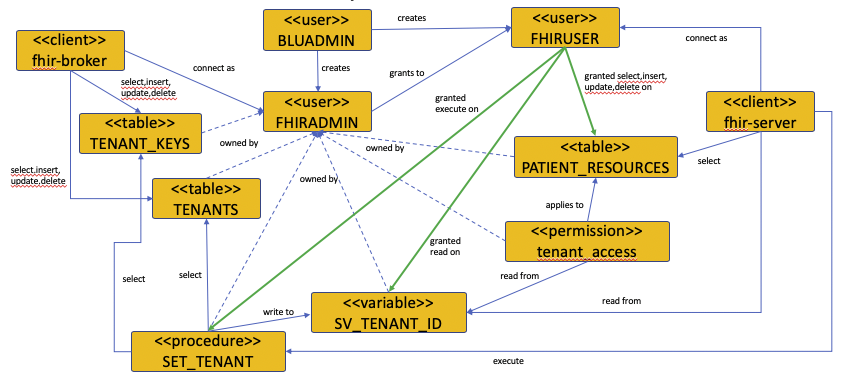
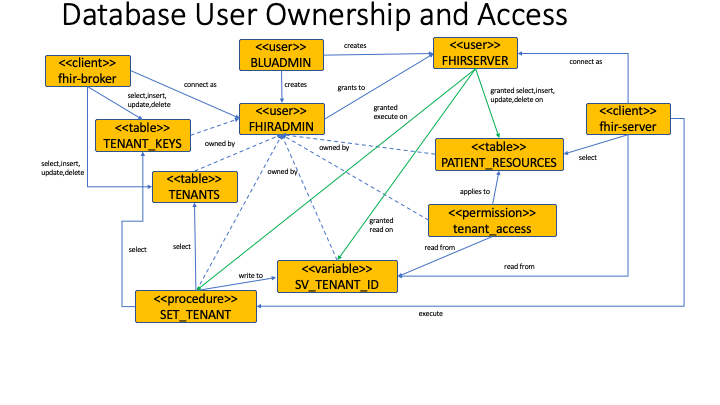
IBM FHIR Server - DB2 Multitenancy Guide #744

diff --git a/fhir-persistence-schema/docs/DB2MultiTenancy.md b/fhir-persistence-schema/docs/DB2MultiTenancy.md
@@ -1,6 +1,6 @@
-# The IBM FHIR Server - DB2 Multi-Tenancy
+# The IBM FHIR Server - Db2 Multi-Tenancy
 
-This document outlines the schema design and implementation for the IBM FHIR Server's DB2 Multi-tenancy feature. 
+This document outlines the schema design and implementation for the IBM FHIR Server's Db2 Multi-tenancy feature. 
 
 The Multi-tenancy feature has two main areas of focus: 
 - Tenant Provisioning  
@@ -57,7 +57,7 @@ Multiple keys per tenant are supported, and key rotation includes adding, and th
 
 **Table: VERSION_HISTORY**
 
-The VERSION_HISTORY table enables Tenant version isolation, so upgrades and patches are separately applied to each tenant's schema. 
+The VERSION_HISTORY table enables Tenant version isolation, so upgrades and patches are separately applied to the schema the tenant belongs. Specifically, if the tenant shares the table definitions with another client, the patching is applied to both tenants at the same time.  If the tenant has a specific schema, the table definitions may be updated independent of each other. 
 
 | Column Name | Data Type | Length | Null | Purpose |
 |----------|---------------|---------------|---------------|---------------------------------------------|
@@ -71,15 +71,19 @@ The VERSION_HISTORY table enables Tenant version isolation, so upgrades and patc
 
 The Tenant specific data is partitioned and isolated in a customer specific tablespace.  The tenant data is not mixed with other tenant data physically using the tablespace isolation. 
 
-Tenants are never able to see each other's data, each user is only able to see a single tenant's data. 
+Tenants are never able to see each other's data, each user is only able to see a single tenant's data. The IBM FHIR Server uses the [CREATE PERMISSION statement](https://www.ibm.com/support/knowledgecenter/SSHRBY/com.ibm.swg.im.dashdb.sql.ref.doc/doc/r0057429.html) to create a row permission that specifies a condition under which rows of the table can be accessed. 
 
-Each tenant's data is able to be moved, backedup, restored or exported a tenant-at-a-time.  This approach allows tenant independent restore points.
+The condition to access the content is based on the SQL variable FHIR_ADMIN.SV_TENANT_ID joined with each table's MT_ID (multi-tenant id). If you need to query all tenants, you need to write a specific stored procedure to loop over the tenant_ids and query the table with each variable set with each tenant_id, and aggregate in the stored procedure. 
+
+Each tenant's data is able to be moved, backedup, restored or exported a tenant-at-a-time.  This approach allows tenant independent restore points, using [DB2 11.1: Backing up partitioned databases](https://www.ibm.com/support/knowledgecenter/SSEPGG_11.1.0/com.ibm.db2.luw.admin.ha.doc/doc/t0051366.html)
 
 The isolated data supports tenant independent query plan caches, scaling and disambiguating tenant specific disk and space usage. The performance metrics are tenant specific, and diagnostics are tenant specific. 
 
 **Table: Resources**
 
-Each resource is contains a root RESOURCE and LOGICAL RESOURCE, such as VISIONPRESCRIPTION:
+Each resource is contains a RESOURCE and LOGICAL RESOURCE table. `_LOGICAL_RESOURCES` has one record per logical resource.  `_RESOURCES` has one record for each version of each logical resource. 
+
+For example, VISIONPRESCRIPTION has: 
 
 ```
 VISIONPRESCRIPTION_RESOURCES
@@ -98,11 +102,42 @@ VISIONPRESCRIPTION_STR_VALUES
 VISIONPRESCRIPTION_TOKEN_VALUES
 ```
 
-There are also global tables which enable a global search using the logical_resource and resource.  
+There are also additional tables to support search: `LOGICAL_RESOURCE`, `RESOURCE_TYPES` and `PARAMETER_NAMES` These tables are paritioned, and are specific for each tenant. 
 
-Each row is secured using DB2 Row Permission. The Stored Procedure is the ONLY way for a user to set the variable, which is used in the DB2 Row Permission. 
+**Table: Global: LOGICAL_RESOURCE**
 
-Each tenant's data is encrypted. 
+This table facilitates global search optimizations. 
+
+| Column Name | Data Type | Length | Null | Purpose |
+|----------|---------------|---------------|---------------|---------------------------------------------|
+| MT_ID | Integer | 4 | No | Matches to the MT_ID in the TENANTS table |
+| LOGICAL_RESOURCE_ID | Integer | 8 | No | The ID is from the sequence, and is used to identify the unique entry in the specific Resource row |
+| RESOURCE_TYPE_ID | VARCHAR | 44 | No | Associates a Resource with a Resource Type using the value from the Resource Types table |
+| LOGICAL_ID | VARCHAR | 255 | No | The unique tenant specific UUID assigned to the Resource |
+
+**Table: Global: RESOURCE_TYPES**
+
+The tenant specific table of resources, which are mapped to bigints as FKs to optimize global search. 
+
+| Column Name | Data Type | Length | Null | Purpose |
+|----------|---------------|---------------|---------------|---------------------------------------------|
+| MT_ID | Integer | 4 | No | Matches to the MT_ID in the TENANTS table |
+| RESOURCE_TYPE_ID | Integer | 4 | No | A unique Identifier identifying the type of the resource |
+| RESOURCE_TYPE | VARCHAR | 32 | No | Each ResourceType |
+
+**Table: Global: PARAMETER_NAMES**
+
+The PARAMETER_NAMES table registers, for each tenant, a mapping from the Search Parameter `code` to an `integer`, which is used in the values table to uniquely identify the parameter name.  The parameters are only registered on extraction (Create, Update), and not populated on Search. 
+
+| Column Name | Data Type | Length | Null | Purpose |
+|----------|---------------|---------------|---------------|---------------------------------------------|
+| MT_ID | Integer | 4 | No | Matches to the MT_ID in the TENANTS table |
+| PARAMETER_NAME_ID | INTEGER | 4 | No | A unique integer for each parameter, and is stored along with the value in the Parameters VALUES table for each resource |
+| PARAMETER_NAME | VARCHAR | 255 | No | The Parameter name which actually maps to the FHIR SearchParameter `code` |
+
+Each row is secured using Db2 Row Permission. The Stored Procedure is the ONLY way for a user to set the variable, which is used in the Db2 Row Permission. 
+
+Each tenant's data is encrypted.  For Db2 on Cloud, it uses Db2 native encryption. This means there is a single key that encrypts all the tenants. There is currently no way to encrypt each tenant's tablespace with a different key.
 
 Offboarding a tenant's data is accomplished using dettach/drop partition, and subsequently dropping the tablespace. 
 
@@ -110,7 +145,7 @@ Offboarding a tenant's data is accomplished using dettach/drop partition, and su
 
 The FHIR_ADMIN.SET_TENANT is used at the beginning of a connection to the IBM FHIR Server's multi-tenant schema. The SET_TENANT takes as input: tenant_name VARCHAR(36), tenant_key  VARCHAR(44).  The content outputs a connection specific variable `fhir_admin.sv_tenant_id` with the `tenant.mt_id`, which is automatically applied to the INSERT,SELECT,UPDATE,DELETE.  Only tenant's with status ALLOCATED are allowed to execute the actions.
 
-To use the stored procedure from the db2 administrative console. 
+To use the stored procedure from the Db2 administrative console. 
 
 * Map Tenant and Key to Tenant ID (Stored Procedure) - `CALL FHIR_ADMIN.set_tenant('a-tenant-name', 'BLAH_BLAH');`
 * Show the value set for the session - `VALUES fhir_admin.sv_tenant_id;`
@@ -119,16 +154,16 @@ To use the stored procedure from the db2 administrative console.
 **Schema: Permissions**
 
 The Multi-tenant schema sets the following permissions: 
-- All objects in schema FHIRADMIN are owned by user FHIRADMIN
+- All objects in schema FHIR_ADMIN are owned by user FHIRADMIN
 - All objects in schema FHIRDATA are owned by user FHIRADMIN
-- GRANT EXECUTE ON FHIRADMIN.SET_TENANT TO FHIRUSER;
-- GRANT READ ON FHIRADMIN.SV_TENANT_ID TO FHIRUSER;
-- GRANT EXECUTE ON FHIRDATA.ADD_RESOURCE_TYPE TO FHIRUSER;
-- GRANT EXECUTE ON FHIRDATA.ADD_RESOURCE TO FHIRUSER;
-- GRANT SELECT,INSERT,UPDATE,DELETE ON FHIRDATA.PATIENT_RESOURCES TO FHIRUSER;
+- GRANT EXECUTE ON FHIR_ADMIN.SET_TENANT TO FHIRSERVER;
+- GRANT READ ON FHIR_ADMIN.SV_TENANT_ID TO FHIRSERVER;
+- GRANT EXECUTE ON FHIRDATA.ADD_RESOURCE_TYPE TO FHIRSERVER;
+- GRANT EXECUTE ON FHIRDATA.ADD_RESOURCE TO FHIRSERVER;
+- GRANT SELECT,INSERT,UPDATE,DELETE ON FHIRDATA.PATIENT_RESOURCES TO FHIRSERVER;
 
-FHIRADMIN owns all schema objects. 
-FHIR User is granted a minimum set of priveleges. 
+FHIR_ADMIN owns all schema objects. 
+FHIRSERVER is granted a minimum set of priveleges. 
 SET_TENANT is the only way to write the SV_TENANT_ID. 
 
 The diagram outlines the relationships between the administrative and tenant schema. 
